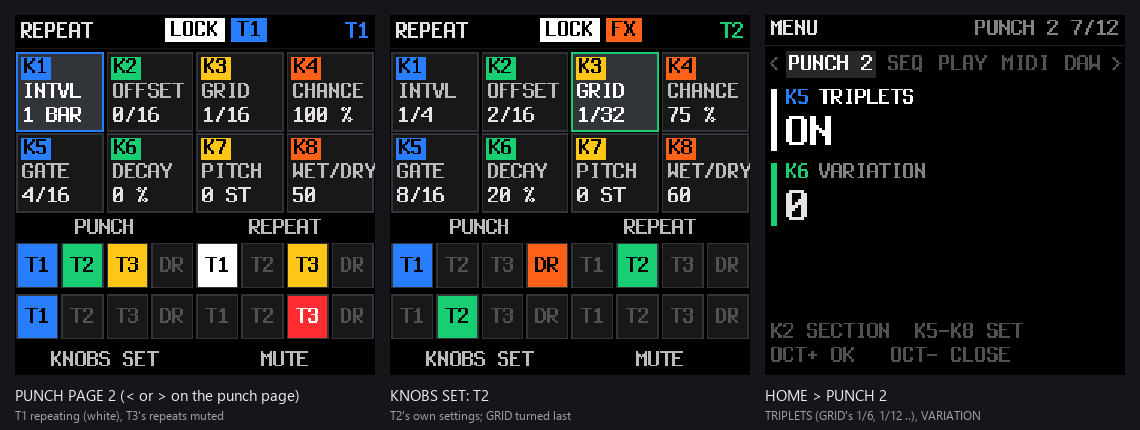
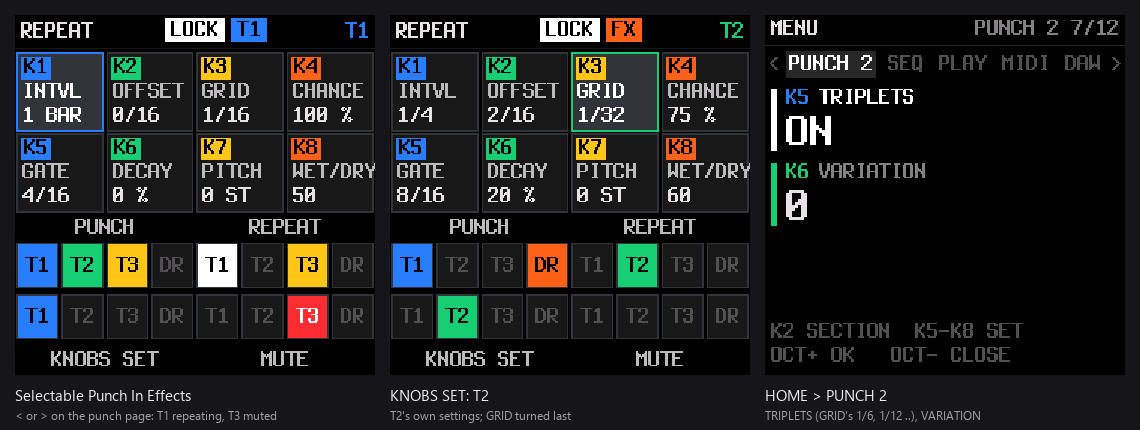
docs: punch page 2 named Selectable Punch In Effects (the owner)

Changed region(s): [[0.0, 0.907, 0.2763, 0.9977]]

diff --git a/SMK37.md b/SMK37.md
@@ -27,7 +27,7 @@ All of SLOOP 2.8.4 (four tracks, the sequencer, the 27 punch-in effects, the web
 | **USB audio stems** | six mono channels, 24 bit, to the DAW: drums in four groups, the synths, the reverb / delay return; 48 or 44.1 kHz; a layout change re-plugs USB by itself; STEM LEVEL −18 / −12 / −6 dB | [USB audio stems](#usb-audio-stems) |
 | **Punch-ins on the stems** | STEM FX: the rhythmic punch-ins (loops, stutter, reverse, stop, half, rewind, gate) on every stem, seamless loop joins, settable stitches (HOME > PUNCH: FADE, XFADE, CURVE) | [STEM FX](#usb-audio-stems) |
 | **The stem punch-in page** | FX held (or locked with FX + FADER BANK): the pads as four colour rows, rows 1-3 the stem punch-ins, FREEZE | [the page](#the-stem-punch-in-page) |
-| **Punch page 2, BEAT REPEAT** | < or > on the punch page: which stems the punch acts on, and BEAT REPEAT per track (a sequencer effect modelled on Ableton's Beat Repeat), latched, with MUTE and WET / DRY | [Page 2](#page-2-the-stems-punched-and-beat-repeat) |
+| **Selectable Punch In Effects, BEAT REPEAT** | < or > on the punch page: which stems the punch acts on, and BEAT REPEAT per track (a sequencer effect modelled on Ableton's Beat Repeat), latched, with MUTE and WET / DRY | [Page 2](#selectable-punch-in-effects-the-stems-punched-and-beat-repeat) |
 | **Sequencer effects** | row 4 of the page: FLIP (backwards), LOOP BACK (2 bars .. 1/16, changeable while held), RAMP UP / DOWN (tempo ramps; the DAW stays the clock master); recorded and replayed as MIDI | [Sequencer effects](#sequencer-effects-row-4) |
 | **DAW mode** | < + >: the whole keyboard as a MIDI controller, with an editable CC map | [DAW mode](#daw-mode) |
 | **The cats** | dancing cats at power-on (any key, pad or button skips them), on HOME > ABOUT with the build's name and version, and as a screensaver (LIGHTS > SCREENSAVER) | [HOME menu](#home-menu-the-smk-37-settings) |
@@ -187,7 +187,7 @@ the screen names them), OCT+ steps the row under the cursor; SEQ PLAY and SEQ RE
 | PUNCH | FADE | K6 | the punch-ins' fade in and out, 0 (default, the shortest) .. 15: the same setting as SELECT on the FX page (shown large at its top right). OCT+ back to 0 |
 | PUNCH | XFADE | K7 | with STEM FX: the shortest stitch on the stems (a punch in or out), 1.5 / 2.9 (default) / 5.8 MS; FADE makes it longer. At once |
 | PUNCH | CURVE | K8 | with STEM FX: EQUAL (default; the level holds through a stitch between unrelated audio) or LINEAR (the old ramp, ~3 dB down half way). A fresh loop's punch-in (the same audio both sides) stays linear. At once |
-| PUNCH 2 | TRIPLETS | K5 | [BEAT REPEAT](#page-2-the-stems-punched-and-beat-repeat)'s GRID with the triplets 1/6, 1/12, 1/24, 1/48: **ON** (default) / OFF (1/4, 1/8, 1/16, 1/32, 1/64 only; Ableton's NO TRIPLETS). Kept |
+| PUNCH 2 | TRIPLETS | K5 | [BEAT REPEAT](#selectable-punch-in-effects-the-stems-punched-and-beat-repeat)'s GRID with the triplets 1/6, 1/12, 1/24, 1/48: **ON** (default) / OFF (1/4, 1/8, 1/16, 1/32, 1/64 only; Ableton's NO TRIPLETS). Kept |
 | PUNCH 2 | VARIATION | K6 | BEAT REPEAT: each repeat's GRID chosen at random around the set one, 0 (default: a fixed grid) .. 10. Kept |
 | SEQ | FLIP RETURN | K7 | the stem page's FLIP and LOOP BACK, let go: SLIP (default; the tracks come back where they would have been) or CARRY (they go on from where the effect left them). At once |
 | PLAY | KEY VELOCITY | K5 | see [Velocity](#velocity) |
@@ -281,13 +281,13 @@ In detail:
 - **FX + FADER BANK** locks the FX layer open (FADER BANK lit): no holding FX. FADER BANK again, or any other button but
   PLAY, REC and OCT, lets it go. (SLOOP's own lock, FX held + PATCH tapped, works too.)
 
-### Page 2: the stems punched and BEAT REPEAT
+### Selectable Punch In Effects: the stems punched and BEAT REPEAT
 
-On the punch page (FX held or locked), tap **<** or **>**: page 2. It latches (the FX layer stays open: let go of FX);
+On the punch page (FX held or locked), tap **<** or **>**: **Selectable Punch In Effects**. It latches (the FX layer stays open: let go of FX);
 < or > again turns back to the punch page. It works in every USB LAYOUT. The main punch page stays the performance
-page; page 2 is for setting up and leaving.
+page; Selectable Punch In Effects is for setting up and leaving.
 
-![Punch page 2: T1 repeating and T3 muted, the knobs on T1; the knobs on T2; HOME > PUNCH 2](assets/screens/smk37-punch-page2.png)
+![Selectable Punch In Effects: T1 repeating and T3 muted, the knobs on T1; the knobs on T2; HOME > PUNCH 2](assets/screens/smk37-punch-page2.png)
 
 | Pads | 1 | 2 | 3 | 4 | 5 | 6 | 7 | 8 |
 |---|---|---|---|---|---|---|---|---|

diff --git a/.github/README.md b/.github/README.md
@@ -27,9 +27,9 @@ its own, and the vocoder runs at **44.1 kHz (HQ)**. [How it all works](/VOCODER.
 
 ## New in this release
 
-- **Punch page 2** (< or > on the punch page): choose which stems the punch-ins act on, and **BEAT REPEAT** per track,
+- **Selectable Punch In Effects** (< or > on the punch page): choose which stems the punch-ins act on, and **BEAT REPEAT** per track,
   a sequencer effect modelled on Ableton's Beat Repeat: latched, with MUTE and WET / DRY, its eight settings on the
-  knobs. [How it works](/SMK37.md#page-2-the-stems-punched-and-beat-repeat).
+  knobs. [How it works](/SMK37.md#selectable-punch-in-effects-the-stems-punched-and-beat-repeat).
 - **Smoother envelopes** on every band: a fuller, steadier vocoder sound, built in.
 - **QUALITY > FULL HQ**: the 44.1 kHz synthesis in FULL too (off by default while it is compared).
 - **POLY CAP AUTO** (the default): FM6, the costliest engine, capped at 4 voices while the vocoder runs.
@@ -38,7 +38,7 @@ its own, and the vocoder runs at **44.1 kHz (HQ)**. [How it all works](/VOCODER.
   under INPUT.
 - **The cats**: dancing at power-on, on HOME > ABOUT, and as a screensaver (LIGHTS > SCREENSAVER).
 
-![Punch page 2: T1 repeating and T3 muted; the knobs on T2; HOME > PUNCH 2](/assets/screens/smk37-punch-page2.png)
+![Selectable Punch In Effects: T1 repeating and T3 muted; the knobs on T2; HOME > PUNCH 2](/assets/screens/smk37-punch-page2.png)
 
 ## What you get
 

diff --git a/VOCODER.md b/VOCODER.md
@@ -10,7 +10,7 @@ in SLOOP stays: the four tracks, the sequencer, the punch-ins, the multichannel 
 
 | | |
 |---|---|
-| **Base** | SLOOP 2.8.4, with all the Multichannel USB audio build adds: punch-in effects on every channel, the punch-in page on the pads and its page 2 (the stems punched, BEAT REPEAT), sequencer effects (FLIP, LOOP BACK, RAMP), DAW mode, STEM LEVEL ([SMK37.md](SMK37.md#page-2-the-stems-punched-and-beat-repeat)) |
+| **Base** | SLOOP 2.8.4, with all the Multichannel USB audio build adds: punch-in effects on every channel, the punch-in page on the pads, Selectable Punch In Effects (the stems punched, BEAT REPEAT), sequencer effects (FLIP, LOOP BACK, RAMP), DAW mode, STEM LEVEL ([SMK37.md](SMK37.md#selectable-punch-in-effects-the-stems-punched-and-beat-repeat)) |
 | **Keyboard** | SMK-37 Elite only |
 | **Tracks** | T1 and T2 (synths); **T3** the audio track (INPUT > AUDIO IN: ON: the input dry or vocoded) or a synth (AUDIO IN: OFF); the drums |
 | **Input level** | HOME > INPUT: **TRIM L**, **TRIM R** (−18 .. +6 dB) with a meter each. Section 2.6 |
